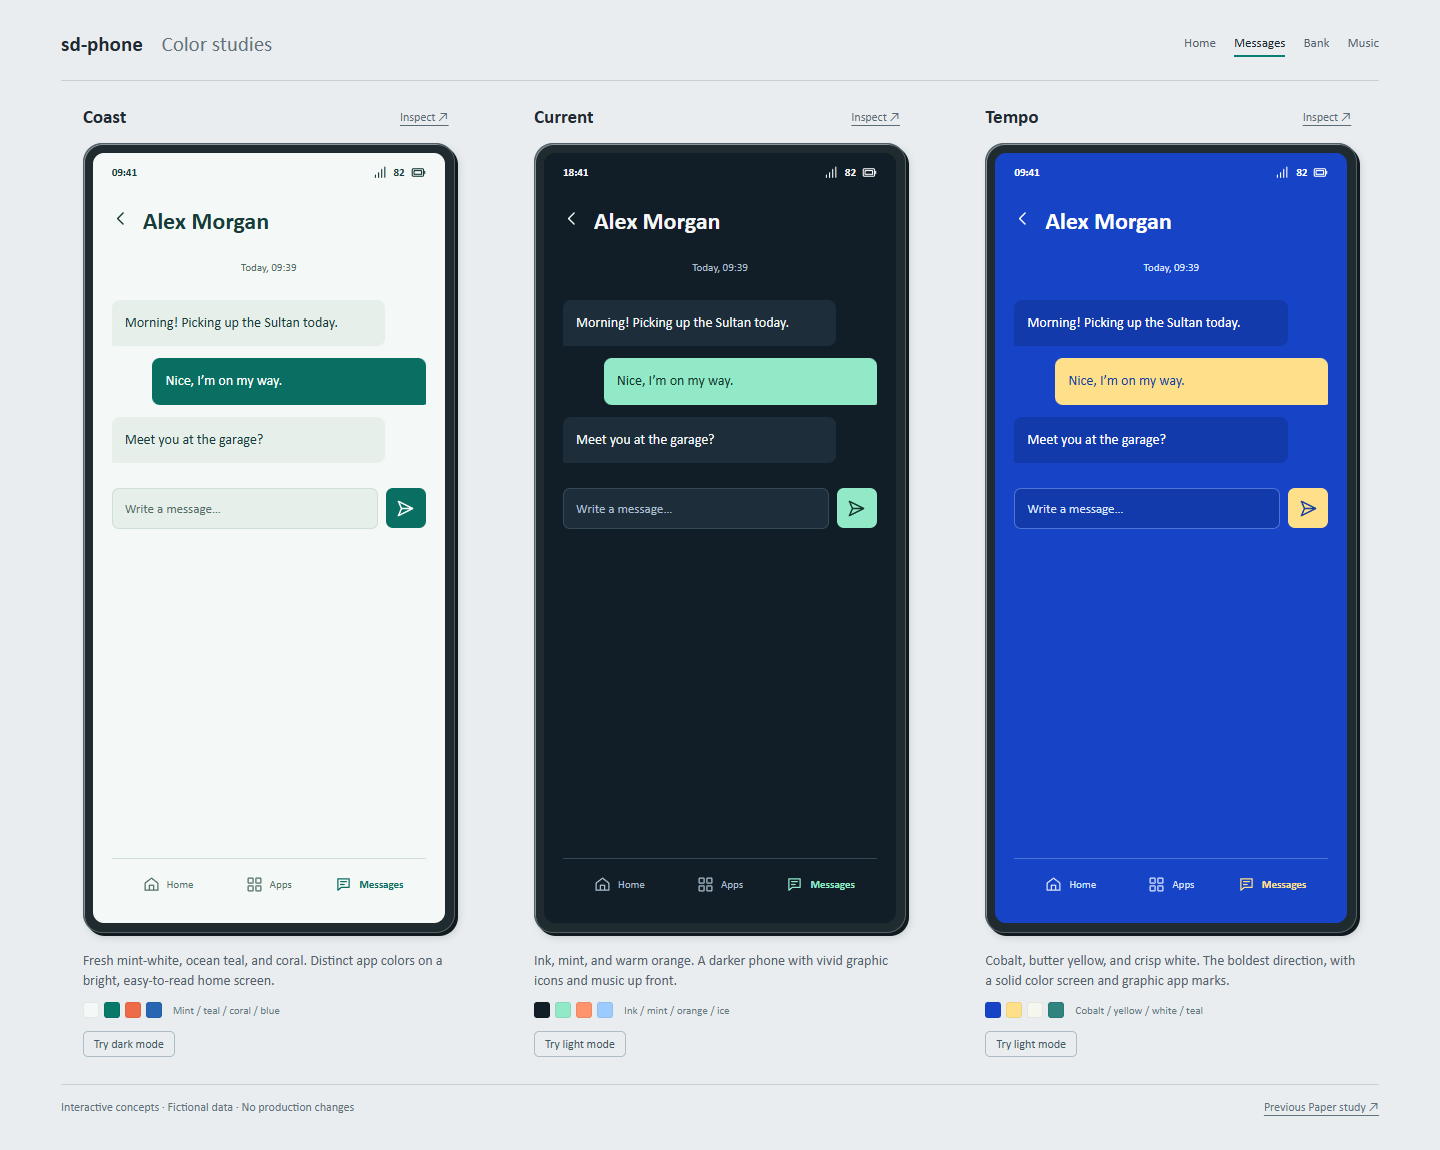
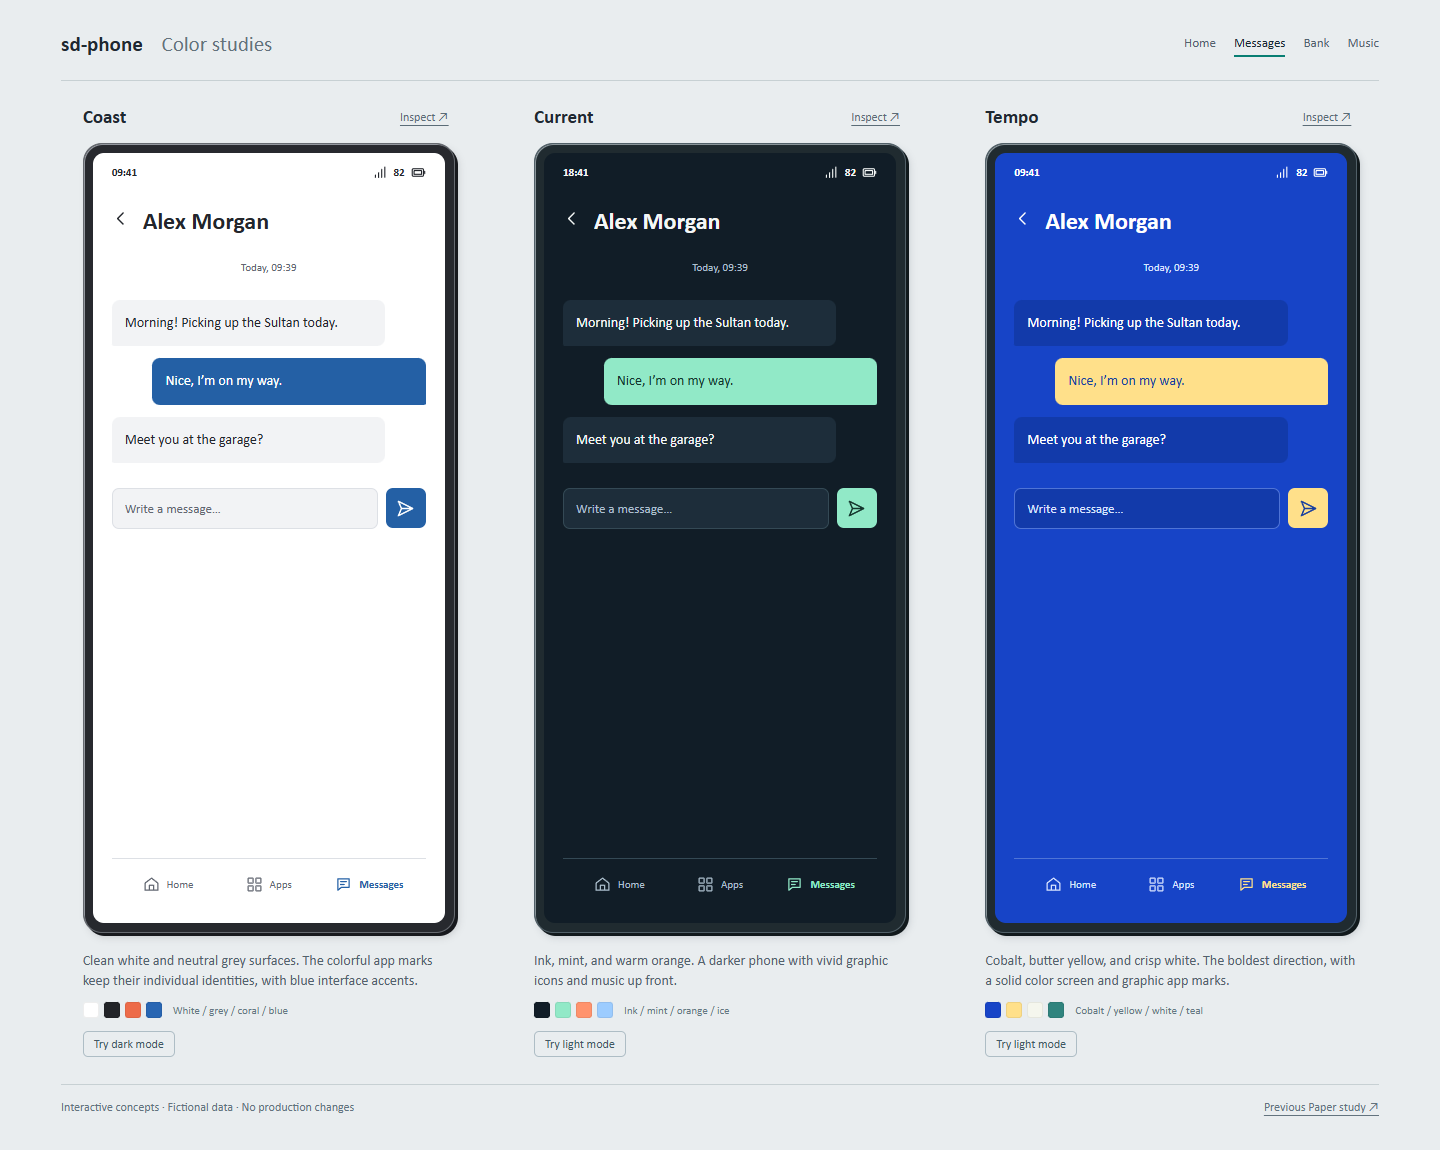
Make Coast mockup clean white with neutral dark grey mode

diff --git a/designs/phone-concepts/vibrant.html b/designs/phone-concepts/vibrant.html
@@ -20,14 +20,19 @@
     .view-controls button { background: none; border: 0; padding: 5px 0; color: #52626e; border-bottom: 2px solid transparent; font-size: 13px; }
     .view-controls button[aria-pressed="true"] { color: #1b2830; border-color: #087e73; }
     .concepts { display: grid; grid-template-columns: repeat(3, minmax(0, 1fr)); gap: 36px; margin-top: 24px; }
+    .pair-study { max-width: 1040px; }
+    .pair-study .concepts { grid-template-columns: repeat(2, minmax(0, 1fr)); gap: 64px; }
     .concept { min-width: 0; }
     .concept-heading { max-width: 372px; margin: 0 auto 15px; display: flex; justify-content: space-between; align-items: center; }
     .concept-heading h2 { font-size: 19px; margin: 0; font-weight: 600; }
     .concept-heading button { background: none; border: 0; font-size: 12px; color: #5b6c77; text-decoration: underline; text-underline-offset: 4px; }
     .device { max-width: 372px; width: 100%; height: 790px; margin: auto; padding: 9px; background: #202b30; border: 1px solid #516068; border-radius: 19px; box-shadow: inset 1px 1px 0 #899499, 3px 3px 0 #11191c, 4px 5px 7px #17252d25; }
     .screen { height: 100%; display: flex; flex-direction: column; overflow: hidden; position: relative; border-radius: 11px; background: var(--bg); color: var(--ink); }
-    .coast[data-mode="light"] { --bg: #f4f8f6; --ink: #183c39; --muted: #526f68; --surface: #e7efeb; --line: #cddfd6; --accent: #086f62; --on-accent: #ffffff; --highlight: #ed6b49; color-scheme: light; }
-    .coast[data-mode="dark"] { --bg: #10272a; --ink: #edf8f1; --muted: #adc8bf; --surface: #1c393b; --line: #365a58; --accent: #9cddbb; --on-accent: #10272a; --highlight: #fa9878; color-scheme: dark; }
+    .coast[data-mode="light"] { --bg: #ffffff; --ink: #23262c; --muted: #626771; --surface: #f2f3f5; --line: #dde0e5; --accent: #2460a5; --on-accent: #ffffff; --highlight: #ed6b49; color-scheme: light; }
+    .coast[data-mode="dark"] { --bg: #222428; --ink: #f4f5f7; --muted: #b6bbc4; --surface: #303338; --line: #484c54; --accent: #9fc7ef; --on-accent: #182535; --highlight: #fa9878; color-scheme: dark; }
+    .concept[data-design="coast"] .device, .concept[data-design="coast-night"] .device { background: #27292e; border-color: #666a70; box-shadow: inset 1px 1px 0 #93979e, 3px 3px 0 #17191d, 4px 5px 7px #23252925; }
+    .coast .cover-mini { color: #ffda87; background: #26394b; }
+    .coast .album-art { color: #ffd487; background: #27384a; }
     .current[data-mode="dark"] { --bg: #111d27; --ink: #f4f7f6; --muted: #acbfcd; --surface: #1d2d3a; --line: #344955; --accent: #91e9c7; --on-accent: #13352c; --highlight: #ff936d; color-scheme: dark; }
     .current[data-mode="light"] { --bg: #f0f5f7; --ink: #142c38; --muted: #536d7a; --surface: #e1ebf0; --line: #c1d5df; --accent: #08796b; --on-accent: #ffffff; --highlight: #b74c28; color-scheme: light; }
     .tempo[data-mode="dark"] { --bg: #1744c7; --ink: #ffffff; --muted: #d9e4ff; --surface: #123aaa; --line: #4f74d6; --accent: #ffe08a; --on-accent: #183f9f; --highlight: #ffd076; color-scheme: dark; }
@@ -147,6 +152,7 @@
     .toast { position: absolute; bottom: 71px; left: 19px; right: 19px; background: var(--ink); color: var(--bg); border-radius: 6px; padding: 12px; z-index: 5; font-size: 12px; }
     @media (max-width: 1100px) { .studio { padding: 24px; } .concepts { gap: 22px; } .app-grid { gap: 23px 6px; } .home { padding-left: 16px; padding-right: 16px; } .clock { font-size: 58px; } .tempo .clock { font-size: 64px; } .app-mark { width: 48px; height: 48px; } }
     @media (max-width: 850px) { .concepts { grid-template-columns: 1fr; gap: 34px; } .concept { width: 100%; max-width: 372px; margin: auto; } .studio-header { flex-wrap: wrap; } .view-controls { gap: 15px; } .app-mark { width: 53px; height: 53px; } .home { padding-left: 20px; padding-right: 20px; } footer { gap: 20px; line-height: 1.5; } }
+    @media (max-width: 850px) { .pair-study .concepts { grid-template-columns: 1fr; gap: 34px; } }
   </style>
 </head>
 <body>
@@ -204,11 +210,21 @@
       services: '<path d="M7 14h26v20H7zM14 14V8h12v6M7 22h26M20 19v6" fill="none" stroke="currentColor" stroke-width="2"/><path d="M7 23h26v11H7z" fill="currentColor" opacity=".2"/>',
       settings: '<path d="M7 11h26M7 20h26M7 29h26" stroke="currentColor" stroke-width="2"/><path d="M12 7h5v8h-5zM23 16h5v8h-5zM15 25h5v8h-5z" fill="currentColor"/>',
     };
-    const designs = [
-      { id:'coast', name:'Coast', mode:'light', description:'Fresh mint-white, ocean teal, and coral. Distinct app colors on a bright, easy-to-read home screen.', swatches:['#f4f8f6','#09796a','#ed6b49','#2866b3'], swatchLabel:'Mint / teal / coral / blue' },
+    const catalog = [
+      { id:'coast', name:'Coast', mode:'light', description:'Clean white and neutral grey surfaces. The colorful app marks keep their individual identities, with blue interface accents.', swatches:['#ffffff','#222428','#ed6b49','#2866b3'], swatchLabel:'White / grey / coral / blue' },
       { id:'current', name:'Current', mode:'dark', description:'Ink, mint, and warm orange. A darker phone with vivid graphic icons and music up front.', swatches:['#111d27','#91e9c7','#ff936d','#9cccff'], swatchLabel:'Ink / mint / orange / ice' },
       { id:'tempo', name:'Tempo', mode:'dark', description:'Cobalt, butter yellow, and crisp white. The boldest direction, with a solid color screen and graphic app marks.', swatches:['#1744c7','#ffe08a','#f5f6ed','#30847e'], swatchLabel:'Cobalt / yellow / white / teal' },
     ];
+    const coastStudy = new URLSearchParams(location.search).get('study') === 'coast';
+    const designs = coastStudy ? [
+      { ...catalog[0], name:'Coast / Light mode', skin:'coast' },
+      { ...catalog[0], id:'coast-night', name:'Coast / Dark mode', skin:'coast', mode:'dark', description:'Neutral dark grey, lighter graphite surfaces, and crisp white text. The same colorful app icons stand out after dark.' },
+    ] : catalog;
+    if (coastStudy) {
+      document.querySelector('.studio').classList.add('pair-study');
+      document.querySelector('h1 span').textContent = 'Coast / White & dark grey';
+      document.title = 'sd-phone / Coast — White & dark grey';
+    }
     const state = Object.fromEntries(designs.map(d => [d.id, { page:'home', mode:d.mode, playing:false, messages:[], contact:'Alex Morgan' }]));
     const button = (id, content, cls='plain') => `<button class="${cls}" data-open="${id}" aria-label="${appNames[id] || ({home:'Home',apps:'All apps',chat:'Open conversation'}[id]) || id}">${content}</button>`;
     const tempoColors = { maps:'#24725a', music:'#856318', notes:'#40592e', camera:'#b54425', calendar:'#ac422c', services:'#885519', settings:'#526572' };
@@ -231,7 +247,7 @@
       if(s.page === 'phone') return `<div class="app-page">${appHeader('Phone')}<div class="account-label">Favorites</div>${['Alex Morgan','Jamie Chen','Benny’s Workshop'].map(name=>`<div class="settings-row"><span>${name}</span><button data-notice="Calling ${name}… (demo)" aria-label="Call ${name}">${icon('phone')}</button></div>`).join('')}</div>`;
       return `<div class="app-page">${appHeader(appNames[s.page])}<p class="empty">This app is a placeholder. Try Messages, Bank, Music, Phone, Notes, or Settings for an example screen.</p>${button('apps','Browse apps ↗')}</div>`;
     }
-    document.querySelector('#concepts').innerHTML = designs.map(d=>`<section class="concept" data-design="${d.id}"><div class="concept-heading"><h2>${d.name}</h2><button data-focus="${d.id}">Inspect ↗</button></div><div class="device"><div class="screen ${d.id}" data-mode="${d.mode}"><div class="status"><span>${d.id==='current'?'18:41':'09:41'}</span><span class="status-right">${icon('bars')}<span>82</span>${icon('battery')}</span></div><div class="content"></div><nav class="dock" aria-label="${d.name} navigation">${button('home', `${icon('home')} Home`)}${button('apps',`${icon('apps')} Apps`)}${button('messages',`${icon('messages')} Messages`)}</nav></div></div><div class="caption"><p>${d.description}</p><div class="swatches">${d.swatches.map(color=>`<i style="background:${color}" aria-hidden="true"></i>`).join('')}<span>${d.swatchLabel}</span></div><button class="mode-button" data-mode>${d.mode==='light'?'Try dark mode':'Try light mode'}</button></div></section>`).join('');
+    document.querySelector('#concepts').innerHTML = designs.map(d=>`<section class="concept" data-design="${d.id}"><div class="concept-heading"><h2>${d.name}</h2><button data-focus="${d.id}">Inspect ↗</button></div><div class="device"><div class="screen ${d.skin || d.id}" data-mode="${d.mode}"><div class="status"><span>${d.id==='current'?'18:41':'09:41'}</span><span class="status-right">${icon('bars')}<span>82</span>${icon('battery')}</span></div><div class="content"></div><nav class="dock" aria-label="${d.name} navigation">${button('home', `${icon('home')} Home`)}${button('apps',`${icon('apps')} Apps`)}${button('messages',`${icon('messages')} Messages`)}</nav></div></div><div class="caption"><p>${d.description}</p><div class="swatches">${d.swatches.map(color=>`<i style="background:${color}" aria-hidden="true"></i>`).join('')}<span>${d.swatchLabel}</span></div><button class="mode-button" data-mode>${d.mode==='light'?'Try dark mode':'Try light mode'}</button></div></section>`).join('');
     function render(id) {
       const phone = document.querySelector(`[data-design="${id}"]`); const s=state[id];
       phone.querySelector('.content').innerHTML = content(id,s);

diff --git a/designs/phone-concepts/README.md b/designs/phone-concepts/README.md
@@ -2,7 +2,9 @@
 
 ## New vibrant directions
 
-Open `vibrant.html` for three fresh directions: **Coast** (mint-white, teal, coral), **Current** (ink, mint, orange), and **Tempo** (cobalt, yellow, white). Each has a graphic icon family, an alternate light/dark appearance, and example Messages, Bank, and Music screens. The top controls compare the same app screen across all three designs. Use Inspect to focus one phone. The Paper study remains in `index.html`.
+Open `vibrant.html` for three fresh directions: **Coast** (clean white or dark grey, blue accents, colorful app icons), **Current** (ink, mint, orange), and **Tempo** (cobalt, yellow, white). Each has a graphic icon family, an alternate light/dark appearance, and example Messages, Bank, and Music screens. The top controls compare the same app screen across all three designs. Use Inspect to focus one phone. The Paper study remains in `index.html`.
+
+Open `vibrant.html?study=coast` to compare the selected Coast design in both modes. Light mode uses pure white `#ffffff`, dark text `#23262c`, and neutral surfaces `#f2f3f5`. Dark mode uses dark grey `#222428`, white text `#f4f5f7`, and graphite surfaces `#303338`. Backgrounds, text, borders, and the device frame have no green tint; individual app icons retain their colors.
 
 Screenshots are in `screenshots/vibrant/`. Run `node designs/phone-concepts/capture-vibrant.mjs` to refresh them and check interactions. This uses the existing Playwright dependency and installed Chrome.
 
